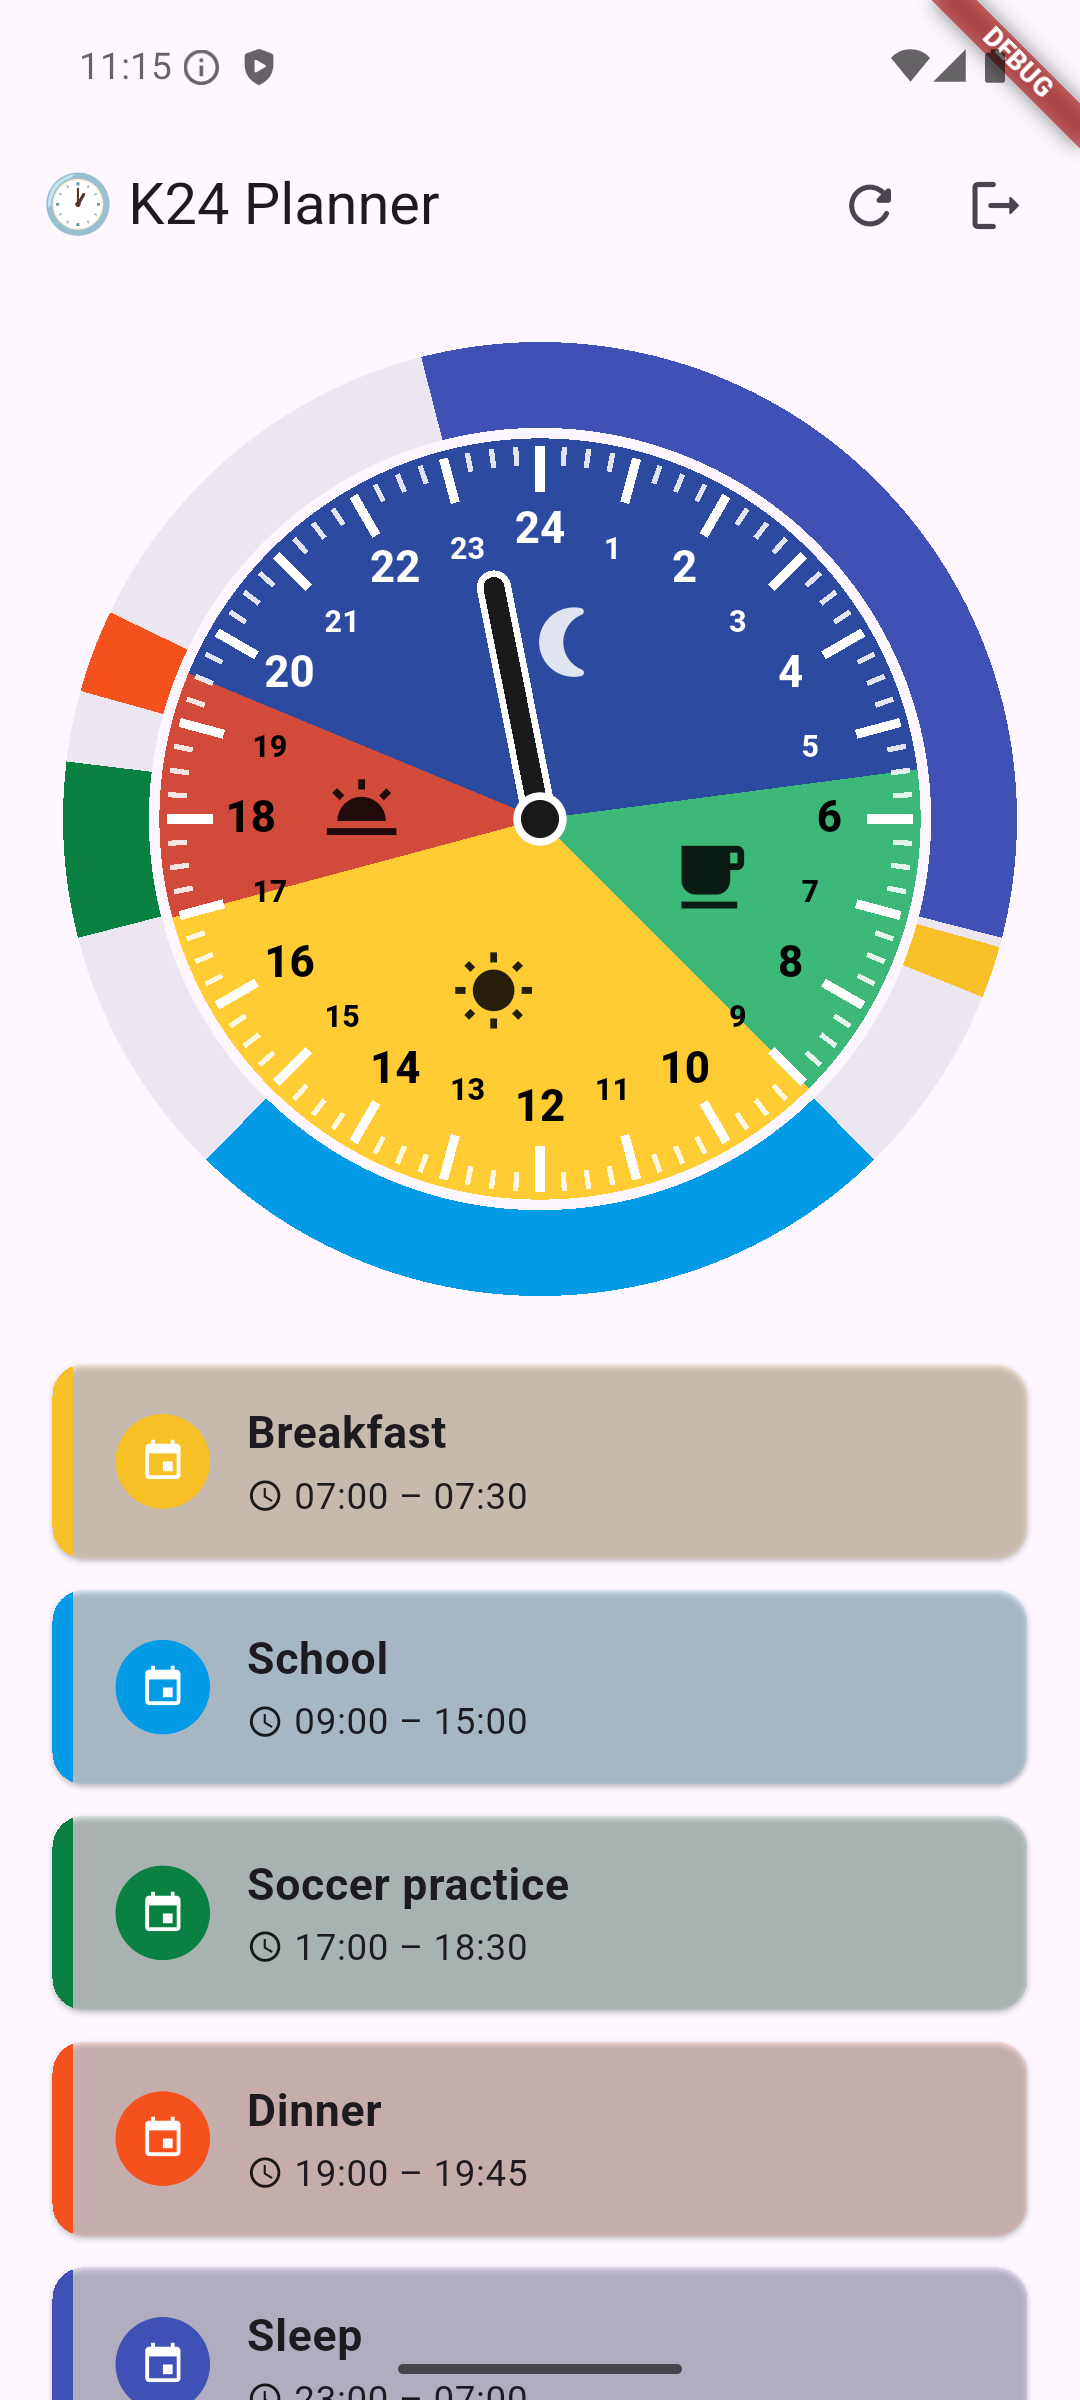
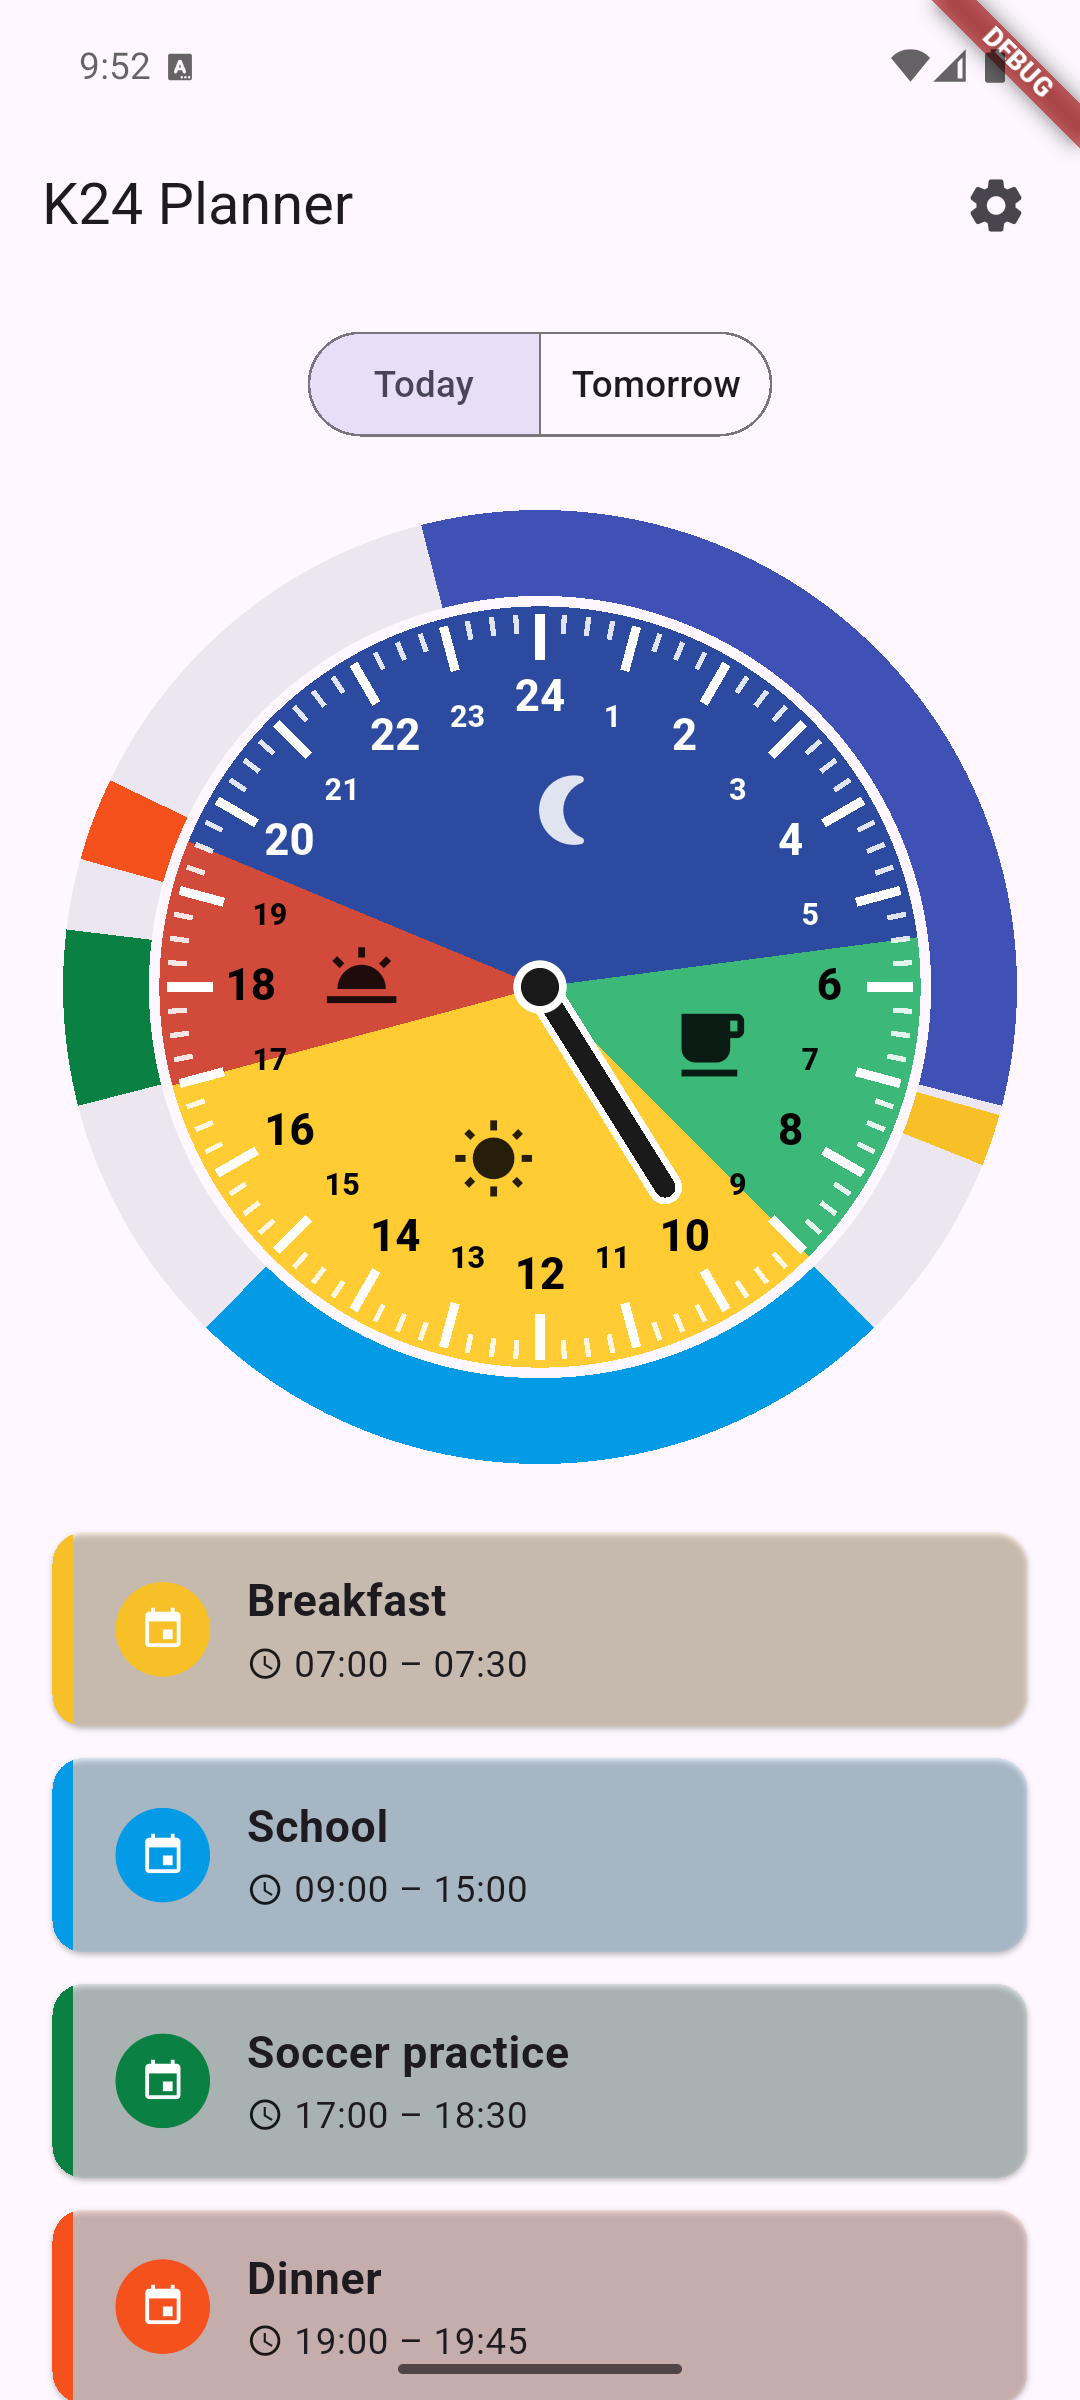
Update README text and screenshot for the toggle and settings screen
Regenerated screenshots/home_screen.png from integration_test/screenshot_test.dart
to reflect the settings (cog) button and Today/Tomorrow toggle.

diff --git a/README.md b/README.md
@@ -2,13 +2,15 @@
 
 A Flutter/Dart Android app for daily task planning centered on a 24-hour analog
 clock — a single hand sweeping the dial once per day, numbered 1–24, modeled after
-physical 24-hour wall-planner clocks. Today's tasks are shown as colored arc
-segments on a ring around the outside of the dial, positioned by time of day.
+physical 24-hour wall-planner clocks. Tasks are shown as colored arc segments on a
+ring around the outside of the dial, positioned by time of day; a Today/Tomorrow
+toggle switches which day's schedule is displayed.
 
-Tasks aren't stored locally — they're the signed-in user's Google Calendar events
-for today, fetched live via the Calendar API. The app is currently read-only: it
-displays today's schedule but has no in-app way to add, edit, or delete events
-(manage those from Google Calendar itself).
+Tasks aren't stored locally — they're the signed-in user's Google Calendar events,
+fetched live via the Calendar API. The app is currently read-only: it displays a
+day's schedule but has no in-app way to add, edit, or delete events (manage those
+from Google Calendar itself). The settings screen lets you rename the app bar
+title, switch the UI language (English, German, or Spanish), and sign out.
 
 ![K24 Planner showing a sample day of events](screenshots/home_screen.png)
 